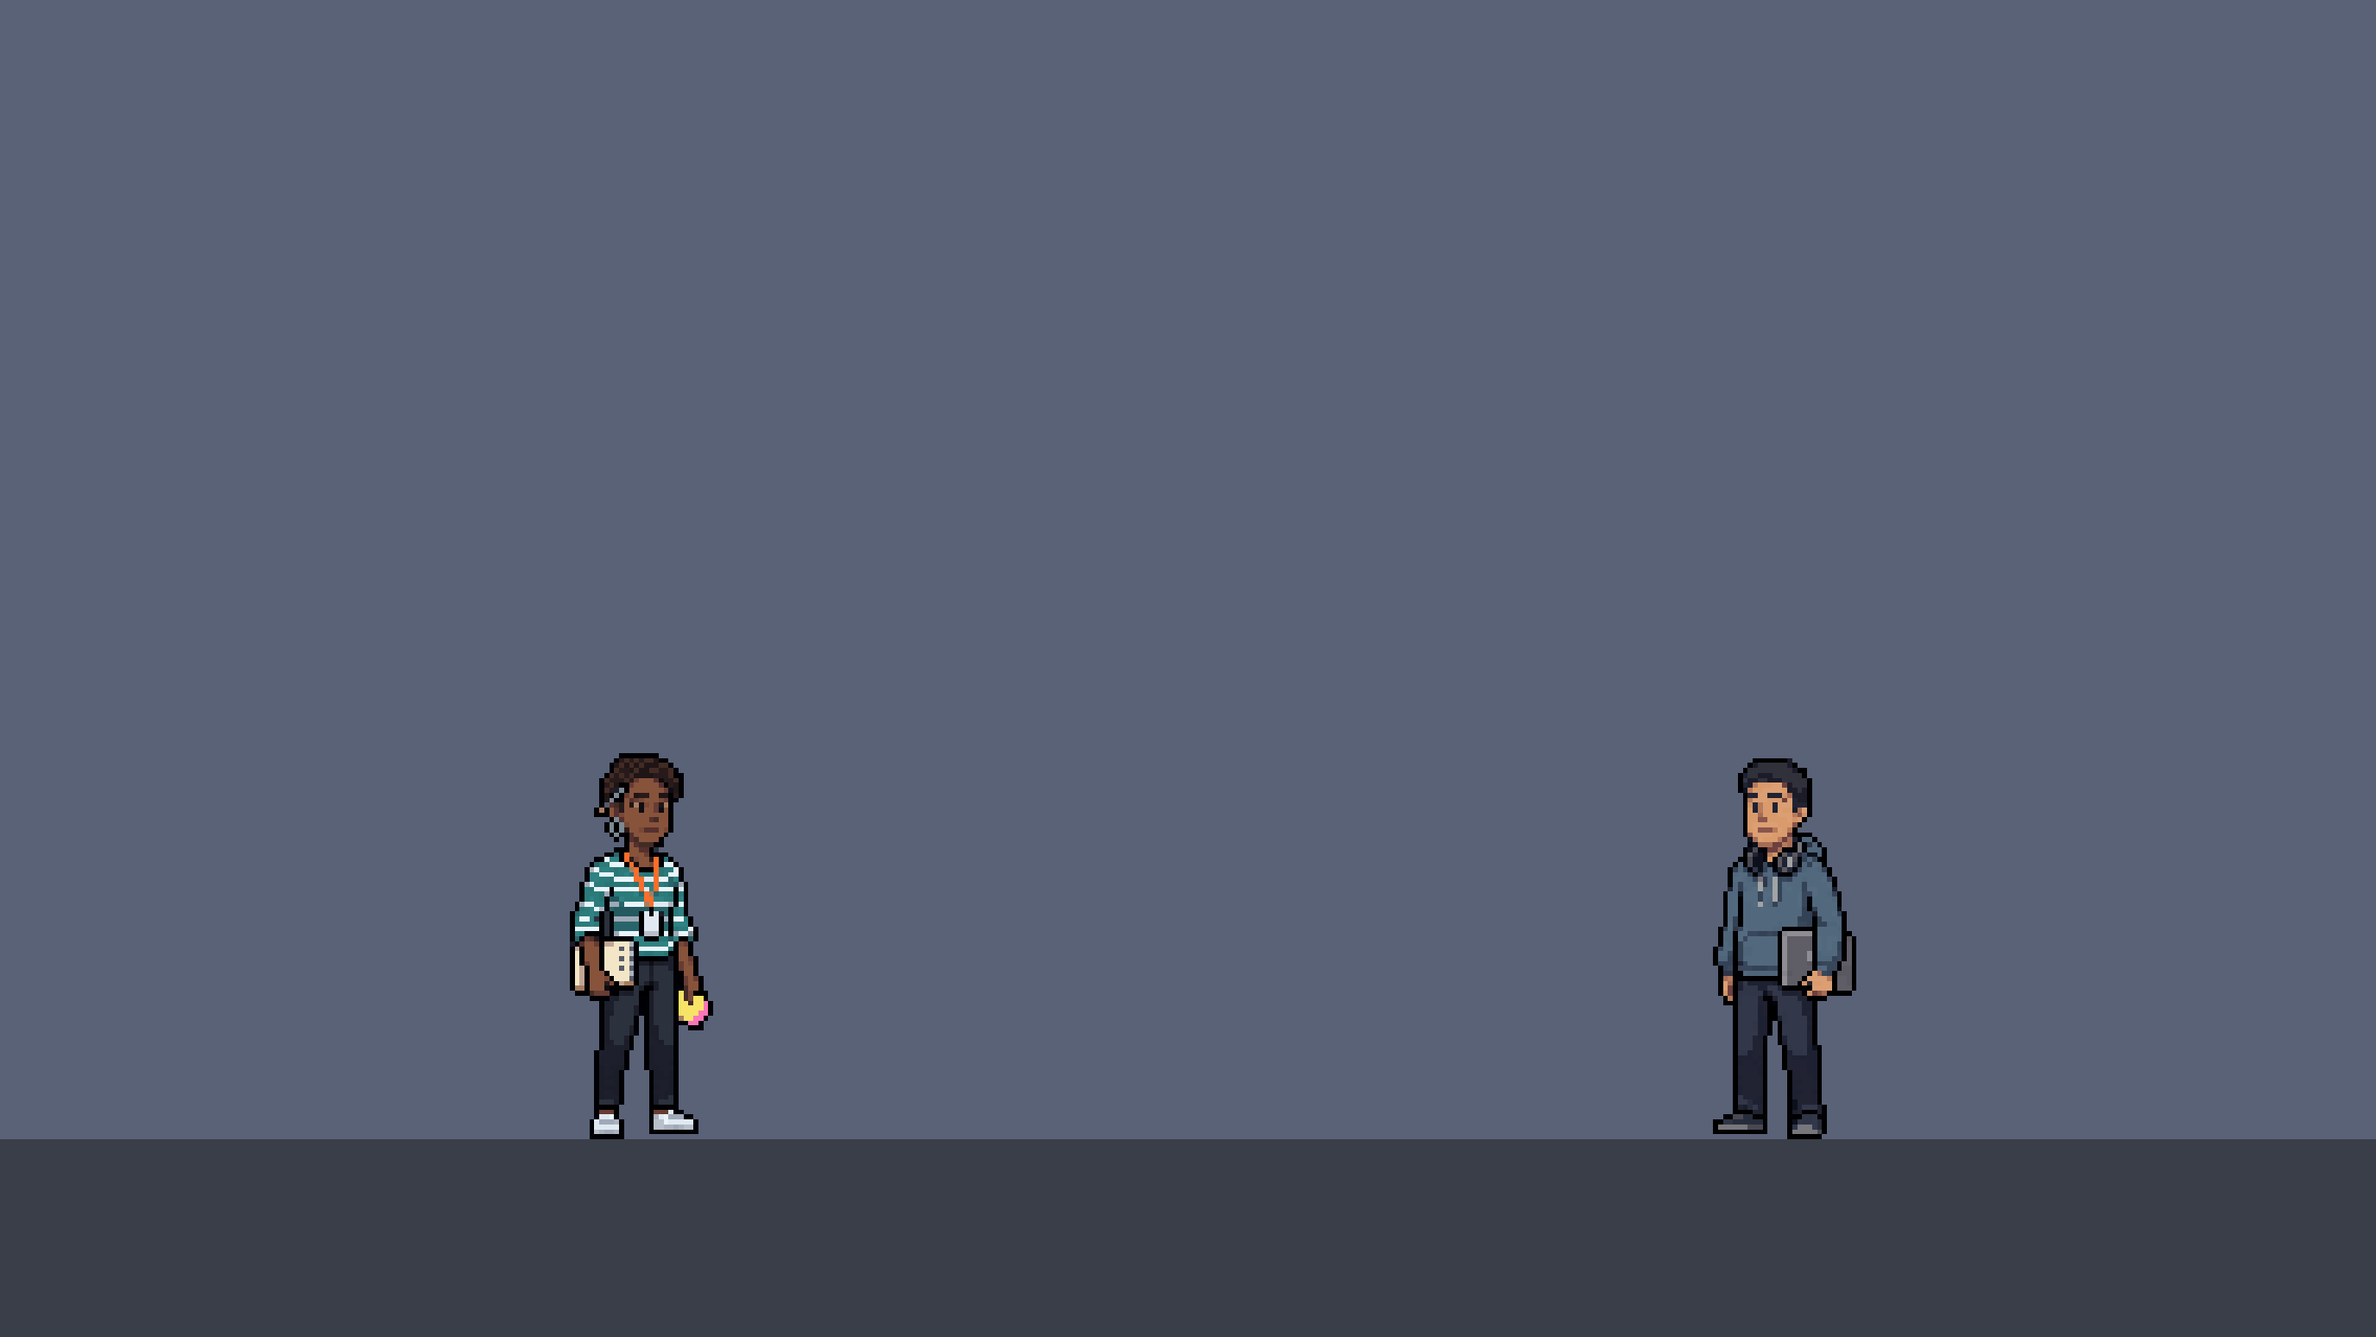
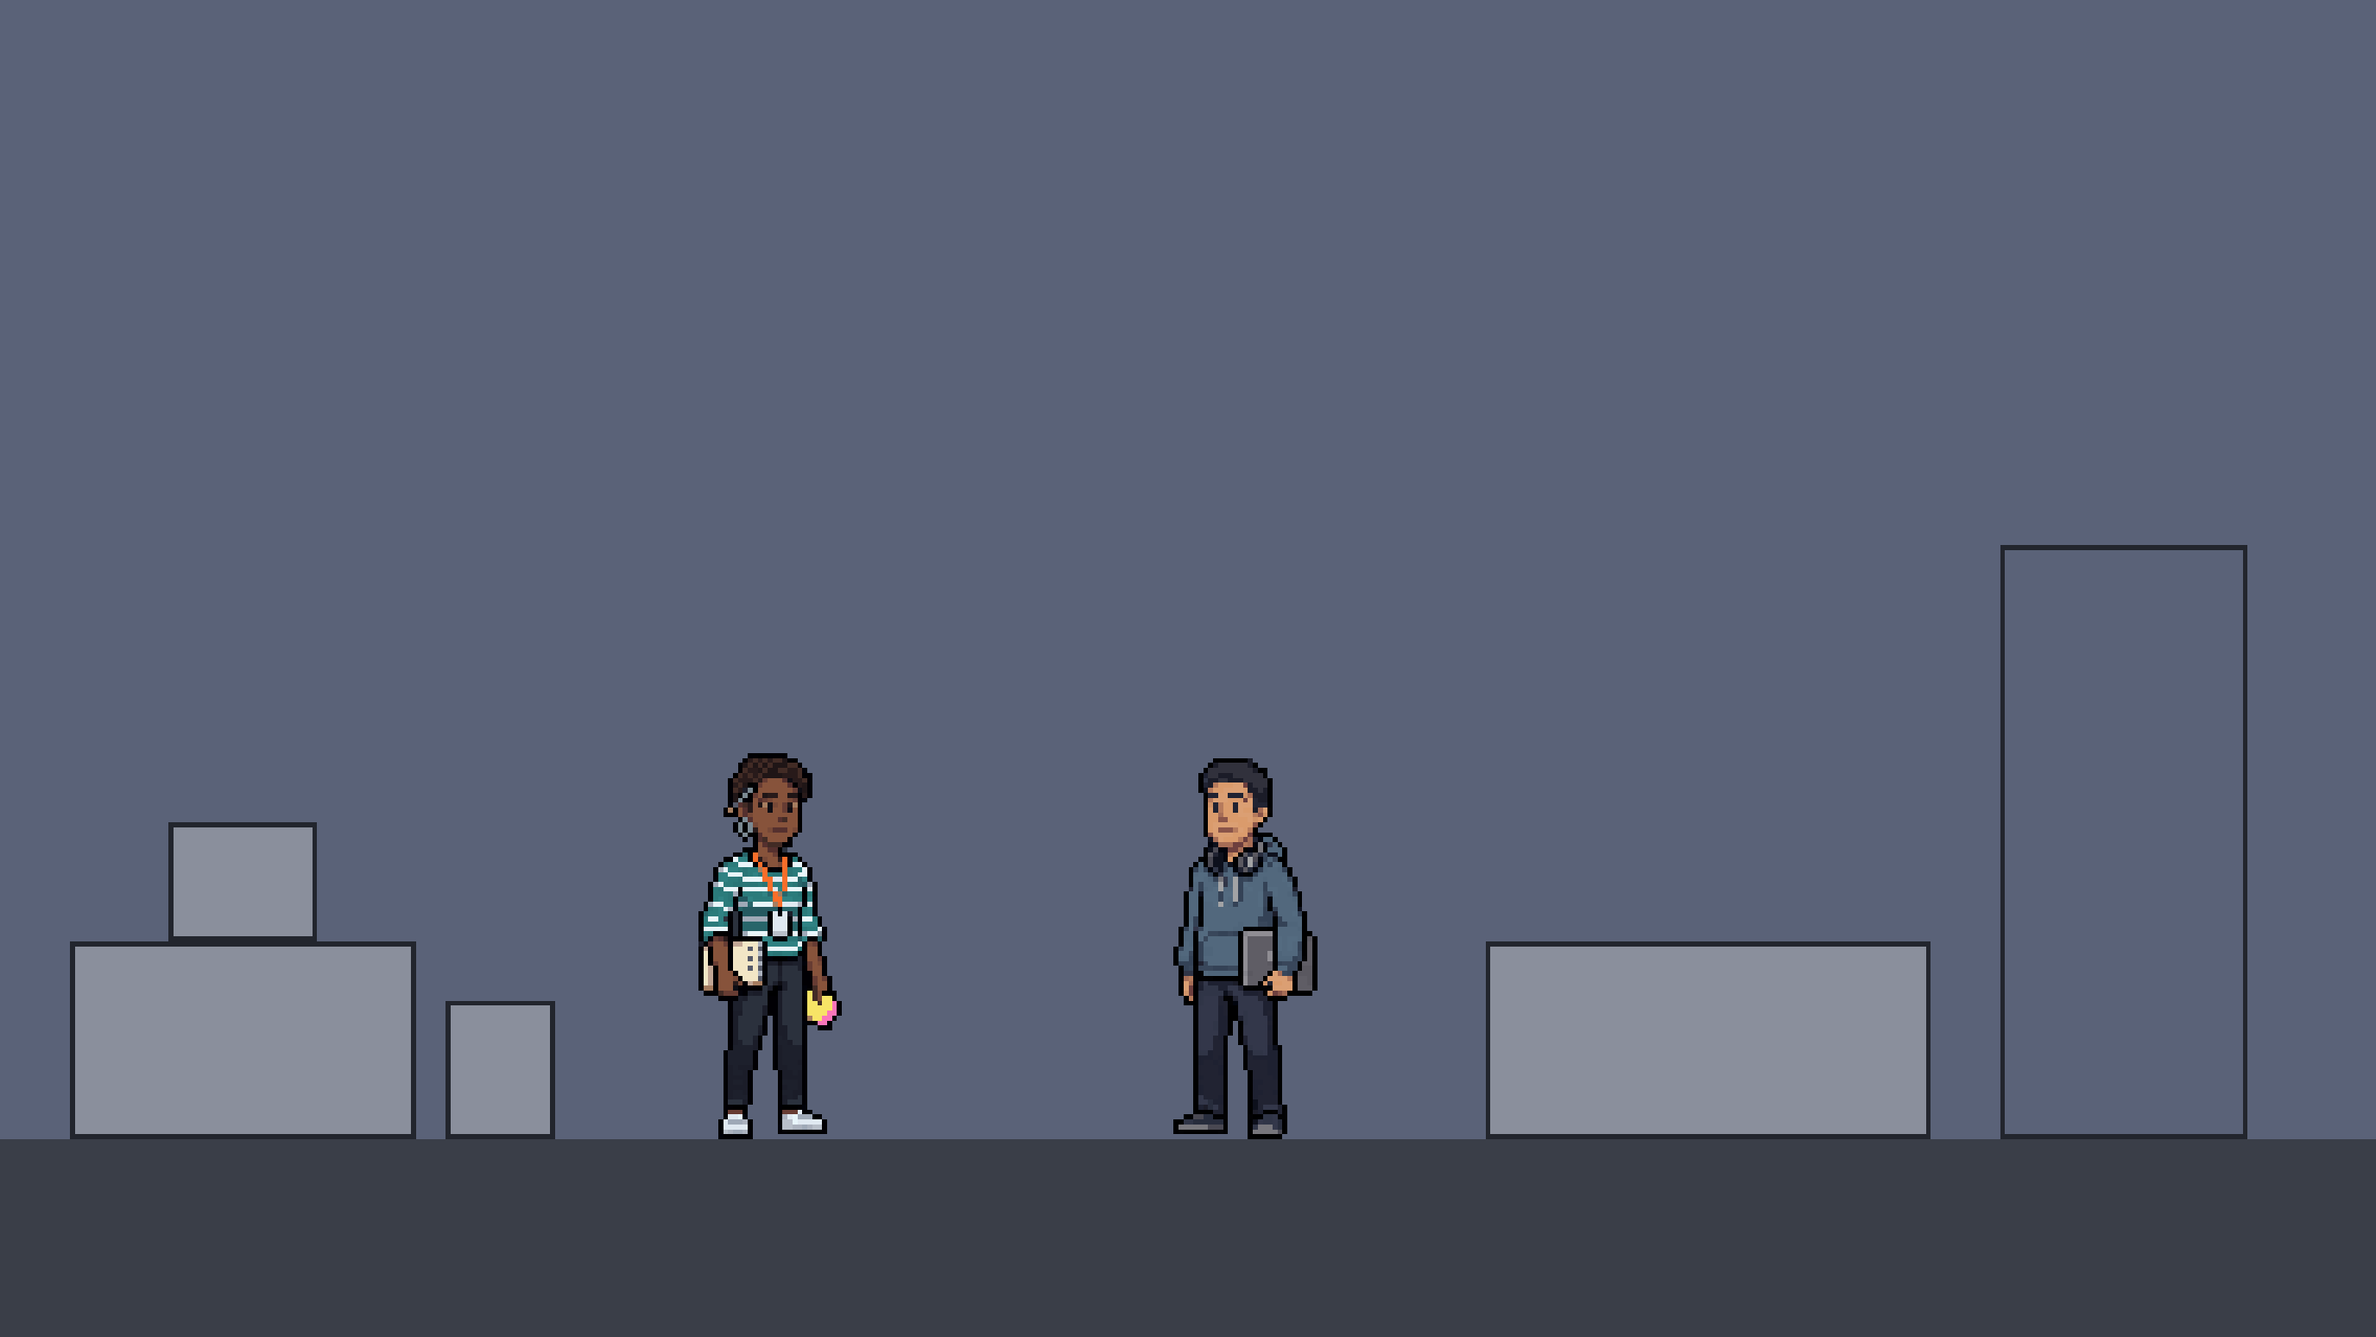
feat(pushback): the ghost narrows to the answer; the scale reference with furniture blocks for the third scene round

diff --git a/src/lib/lab/pushback/buddy.ts b/src/lib/lab/pushback/buddy.ts
@@ -2,7 +2,8 @@
  * Buddy mode: the ghost of the player's predecessor whispers the reply,
  * slowly. While the player hesitates on defence, the ghost fades in
  * behind the player's shoulder with a line, and the wrong counters dim in
- * three steps while the right one and one decoy stay bright. The cost is built into
+ * three steps until only the right one is bright (it left a decoy bright
+ * once, a two-way call at the end, which read as confusing). The cost is built into
  * the existing rules: a counter after the silence bar is half full earns
  * no momentum, and the bar's fallback still fires at the end, so waiting
  * for the whisper is never free. Presentation only; the reducer knows
@@ -31,20 +32,6 @@ export const BUDDY_MARKS = [0.5, 0.7, 0.88] as const;
 export const buddyStep = (elapsed: number, limit: number | null): number => {
   const window = limit ?? BUDDY_WINDOW_MS;
   return BUDDY_MARKS.filter(fraction => elapsed >= fraction * window).length;
-};
-
-/**
- * The wrong counter the ghost leaves bright, so the last call is still
- * the player's: a two-way choice at the end of the whisper. Fixed per
- * exchange by the salt (turn and seed).
- */
-export const buddyKeeps = <T>(
-  menu: readonly T[],
-  answer: T,
-  salt: number,
-): T | undefined => {
-  const wrong = menu.filter(id => id !== answer);
-  return wrong[Math.abs(salt) % Math.max(1, wrong.length)];
 };
 
 /**

diff --git a/src/lib/lab/pushback/buddy.test.ts b/src/lib/lab/pushback/buddy.test.ts
@@ -4,7 +4,6 @@ import { describe, it } from 'node:test';
 import {
   BUDDY_STEPS,
   BUDDY_WINDOW_MS,
-  buddyKeeps,
   buddyLine,
   buddyOpacity,
   buddyStep,
@@ -33,21 +32,6 @@ describe('buddyStep', () => {
     assert.equal(buddyStep(0, null), 0);
     assert.equal(buddyStep(BUDDY_WINDOW_MS * 0.5, null), 1);
     assert.equal(buddyStep(BUDDY_WINDOW_MS, null), BUDDY_STEPS);
-  });
-});
-
-describe('buddyKeeps', () => {
-  it('leaves one decoy bright, never the answer, the same one per salt', () => {
-    const menu = ['a', 'b', 'c', 'd'];
-    const kept = new Set<string>();
-    for (let salt = 0; salt < 12; salt++) {
-      const keep = buddyKeeps(menu, 'c', salt);
-      assert.notEqual(keep, 'c');
-      assert.equal(keep, buddyKeeps(menu, 'c', salt));
-      kept.add(keep!);
-    }
-    assert.equal(kept.size, 3);
-    assert.equal(buddyKeeps(['c'], 'c', 1), undefined);
   });
 });
 

diff --git a/src/ui/lab/pushback/duel-screen.tsx b/src/ui/lab/pushback/duel-screen.tsx
@@ -17,7 +17,6 @@ import {
 } from '@/lib/lab/pushback/attract';
 import {
   GHOST,
-  buddyKeeps,
   buddyLine,
   buddyOpacity,
   buddyStep,
@@ -548,19 +547,10 @@ export const DuelScreen = ({
     }
     if (state.phase === 'defend') {
       const answer = state.exchange?.answer;
-      // The ghost leaves one decoy bright: the last call stays the player's
-      const kept = buddyKeeps(
-        state.menu,
-        answer,
-        state.turn + state.setup.seed,
-      );
       return state.menu.map(id => ({
         id,
         label: pairById(id).counter,
-        dim:
-          whisper > 0 && id !== answer && id !== kept
-            ? buddyOpacity(whisper)
-            : undefined,
+        dim: whisper > 0 && id !== answer ? buddyOpacity(whisper) : undefined,
         onSelect: () => act({ type: 'counter', phrase: id }),
       }));
     }

diff --git a/docs/plans/pushback-prompts.md b/docs/plans/pushback-prompts.md
@@ -633,9 +633,9 @@ Reroll on: legs or feet, a glow or halo (the canvas adds the translucency), a fi
 
 ## Scenes
 
-Four backgrounds at 480 by 270 native pixels, so the prompt asks for a scene about 480 pixels wide, finer than the note headers (about 330). Attach two images to every scene prompt, in this order: `HEADER` for the style, and `SCALE` = `src/assets/lab/pushback/sources/scale-reference.png` for the size of the people. `SCALE` is a plain two-tone room at the render's 16:9 with two idle figures standing on the game's floor line (row 230 of 270) at the size the game draws them, blown up to Gemini's render size with hard edges; the prompts say the second image is the yardstick and nothing else. Do not attach a model sheet: its figures fill more than half the image and Gemini draws the furniture for giants.
+Four backgrounds at 480 by 270 native pixels, so the prompt asks for a scene about 480 pixels wide, finer than the note headers (about 330). Attach two images to every scene prompt, in this order: `HEADER` for the style, and `SCALE` = `src/assets/lab/pushback/sources/scale-reference.png` for the size of the people. `SCALE` is a plain two-tone room at the render's 16:9 with two idle figures standing on the game's floor line (row 230 of 270) at the size the game draws them, and grey blocks at the furniture sizes the prompts name (a desk with a monitor on it, a chair seat, a table, a door outline), blown up to Gemini's render size with hard edges (`scale-ref2.mjs` in the session notes drew it; the figures are the idle cells of Jo and Sam, the blocks are 40, 24, 28, 40 and 120 pixels tall). The prompts say the second image is the yardstick and nothing else. Do not attach a model sheet: its figures fill more than half the image and Gemini draws the furniture for giants.
 
-Why: the first four renders were drawn for people twice the game's size. With the figures on the stands the inventory's scene viewer put the floor and the meeting room at 0.65 and the studio and the office at 0.5, and a render scaled down that far neither fills the 480 by 270 nor keeps its pixel grid, so they are regenerated rather than resampled. The old renders stay in `originals/` for reference.
+Why: the first four renders were drawn for people twice the game's size, and the second round, with the figures alone as the reference and the heights in words, still 1.4 times (desks 56 pixels tall for a 40 hip, the studio printer as tall as a person), so the third round puts the heights into the reference as blocks. With the figures on the stands the inventory's scene viewer put the floor and the meeting room at 0.65 and the studio and the office at 0.5, and a render scaled down that far neither fills the 480 by 270 nor keeps its pixel grid, so they are regenerated rather than resampled. The old renders stay in `originals/` for reference.
 
 Three rules, written into every prompt:
 
@@ -657,8 +657,12 @@ first attached image: the same chunky low-resolution look, the same
 simple shapes, shading and muted colours. Do not copy its content or
 its layout. The second attached image is only a scale reference: the
 two people in it stand on the floor of the room you draw, at exactly
-that size and in exactly those places. Do not draw them; draw the room
-around them, with everything in it sized for people that tall.
+that size and in exactly those places, and the grey blocks are the
+sizes of the furniture for people that small: the low block with the
+box on it is a desk with a monitor, the small block a chair seat, the
+long block a table, the tall outline a door. Do not draw the people or
+the blocks; draw the room around the people, far from the camera, with
+every piece of furniture no bigger than its block.
 
 Style: a 16-bit pixel-art background from a 1990s point-and-click
 adventure game, as it looked on screen. Not modern high-resolution pixel
@@ -668,8 +672,9 @@ drawn out. Three or four shades per material, dark outlines only where
 needed, a limited palette of about 32 colours, ordered dithering in
 shadows. No people.
 
-Scale: a standing person is a bit under a third of the image's height,
-head at 56 percent of the height, feet on the floor line at 85 percent.
+Scale: the people are small in the frame, a bit under a third of the
+image's height, head at 56 percent of the height, feet on the floor
+line at 85 percent, and the furniture is as small as the grey blocks.
 A desk top reaches a person's hip, a chair seat a knee, a monitor is
 a head and a bit tall, a door a person and a half, the ceiling lights
 hang well above a head.
@@ -726,8 +731,12 @@ first attached image: the same chunky low-resolution look, the same
 simple shapes, shading and muted colours. Do not copy its content or
 its layout. The second attached image is only a scale reference: the
 two people in it stand on the floor of the room you draw, at exactly
-that size and in exactly those places. Do not draw them; draw the room
-around them, with everything in it sized for people that tall.
+that size and in exactly those places, and the grey blocks are the
+sizes of the furniture for people that small: the low block with the
+box on it is a desk with a monitor, the small block a chair seat, the
+long block a table, the tall outline a door. Do not draw the people or
+the blocks; draw the room around the people, far from the camera, with
+every piece of furniture no bigger than its block.
 
 Style: a 16-bit pixel-art background from a 1990s point-and-click
 adventure game, as it looked on screen. Not modern high-resolution pixel
@@ -737,8 +746,9 @@ drawn out. Three or four shades per material, dark outlines only where
 needed, a limited palette of about 32 colours, ordered dithering in
 shadows. No people.
 
-Scale: a standing person is a bit under a third of the image's height,
-head at 56 percent of the height, feet on the floor line at 85 percent.
+Scale: the people are small in the frame, a bit under a third of the
+image's height, head at 56 percent of the height, feet on the floor
+line at 85 percent, and the furniture is as small as the grey blocks.
 A table top reaches a person's hip, a chair seat a knee, a door is a
 person and a half, the projector hangs well above a head.
 
@@ -791,8 +801,12 @@ first attached image: the same chunky low-resolution look, the same
 simple shapes, shading and muted colours. Do not copy its content or
 its layout. The second attached image is only a scale reference: the
 two people in it stand on the floor of the room you draw, at exactly
-that size and in exactly those places. Do not draw them; draw the room
-around them, with everything in it sized for people that tall.
+that size and in exactly those places, and the grey blocks are the
+sizes of the furniture for people that small: the low block with the
+box on it is a desk with a monitor, the small block a chair seat, the
+long block a table, the tall outline a door. Do not draw the people or
+the blocks; draw the room around the people, far from the camera, with
+every piece of furniture no bigger than its block.
 
 Style: a 16-bit pixel-art background from a 1990s point-and-click
 adventure game, as it looked on screen. Not modern high-resolution pixel
@@ -802,8 +816,9 @@ drawn out. Three or four shades per material, dark outlines only where
 needed, a limited palette of about 32 colours, ordered dithering in
 shadows. No people.
 
-Scale: a standing person is a bit under a third of the image's height,
-head at 56 percent of the height, feet on the floor line at 85 percent.
+Scale: the people are small in the frame, a bit under a third of the
+image's height, head at 56 percent of the height, feet on the floor
+line at 85 percent, and the furniture is as small as the grey blocks.
 A desk top reaches a person's hip, a printer a person's waist, the
 shelf is above a head, the track lights well above it.
 
@@ -858,8 +873,12 @@ first attached image: the same chunky low-resolution look, the same
 simple shapes, shading and muted colours. Do not copy its content or
 its layout. The second attached image is only a scale reference: the
 two people in it stand on the floor of the room you draw, at exactly
-that size and in exactly those places. Do not draw them; draw the room
-around them, with everything in it sized for people that tall.
+that size and in exactly those places, and the grey blocks are the
+sizes of the furniture for people that small: the low block with the
+box on it is a desk with a monitor, the small block a chair seat, the
+long block a table, the tall outline a door. Do not draw the people or
+the blocks; draw the room around the people, far from the camera, with
+every piece of furniture no bigger than its block.
 
 Style: a 16-bit pixel-art background from a 1990s point-and-click
 adventure game, as it looked on screen. Not modern high-resolution pixel
@@ -869,8 +888,9 @@ drawn out. Three or four shades per material, dark outlines only where
 needed, a limited palette of about 32 colours, ordered dithering in
 skies and shadows. No people.
 
-Scale: a standing person is a bit under a third of the image's height,
-head at 56 percent of the height, feet on the floor line at 85 percent.
+Scale: the people are small in the frame, a bit under a third of the
+image's height, head at 56 percent of the height, feet on the floor
+line at 85 percent, and the furniture is as small as the grey blocks.
 The desk top reaches a person's hip, the chair's back a person's
 shoulder, the cabinet a hip, the spotlights are well above a head.
 

diff --git a/docs/plans/pushback.md b/docs/plans/pushback.md
@@ -91,7 +91,7 @@ One switch on the title screen, `Mode: Normal` or `Mode: Hard`, kept in the save
 
 ### The onboarding buddy
 
-The ghost of the player's predecessor in the role whispers the reply, slowly, in normal mode (see Modes). While the player hesitates on defence, the wrong counters dim in three steps; the right one and one decoy stay bright, so by the third step it is a two-way call and still the player's. The steps land at 50, 70 and 88 percent of the silence limit (or of eight seconds when the bar is off): the ghost never shows while a fast answer is still possible, and the last step comes before the fallback.
+The ghost of the player's predecessor in the role whispers the reply, slowly, in normal mode (see Modes). While the player hesitates on defence, the wrong counters dim in three steps until only the right one is bright (a first version kept one decoy bright for a two-way call at the end; it read as the ghost being wrong, and went). The steps land at 50, 70 and 88 percent of the silence limit (or of eight seconds when the bar is off): the ghost never shows while a fast answer is still possible, and the last step comes before the fallback.
 
 The ghost is a character, not a setting. It is off stage until the first step, then a small black hole opens in front of the player, in the gap between the duellists, and spits it out (about half a second, the sprite squeezed sideways out of a dark disc with a pale rim), floating at about half the people's size, and it says one line in its own pale bubble over its head, in the gap between the duellists, no wider than the gap to the opponent's figure, with a tail down to its head, so it covers nobody (it stood behind the player's shoulder first, half off the left edge in the narrow scenes, with nowhere for the bubble); it stays until the player answers or the fallback fires, then the hole swallows it again. It helps once a duel: after the exchange it whispered on it is gone and the counters stop dimming. It speaks once per appearance, not on every step, so a slow player is not nagged three times an exchange. The lines are helpful and rude, in turn from a start set by the duel's seed so a duel never repeats one before it has used them all:
 
